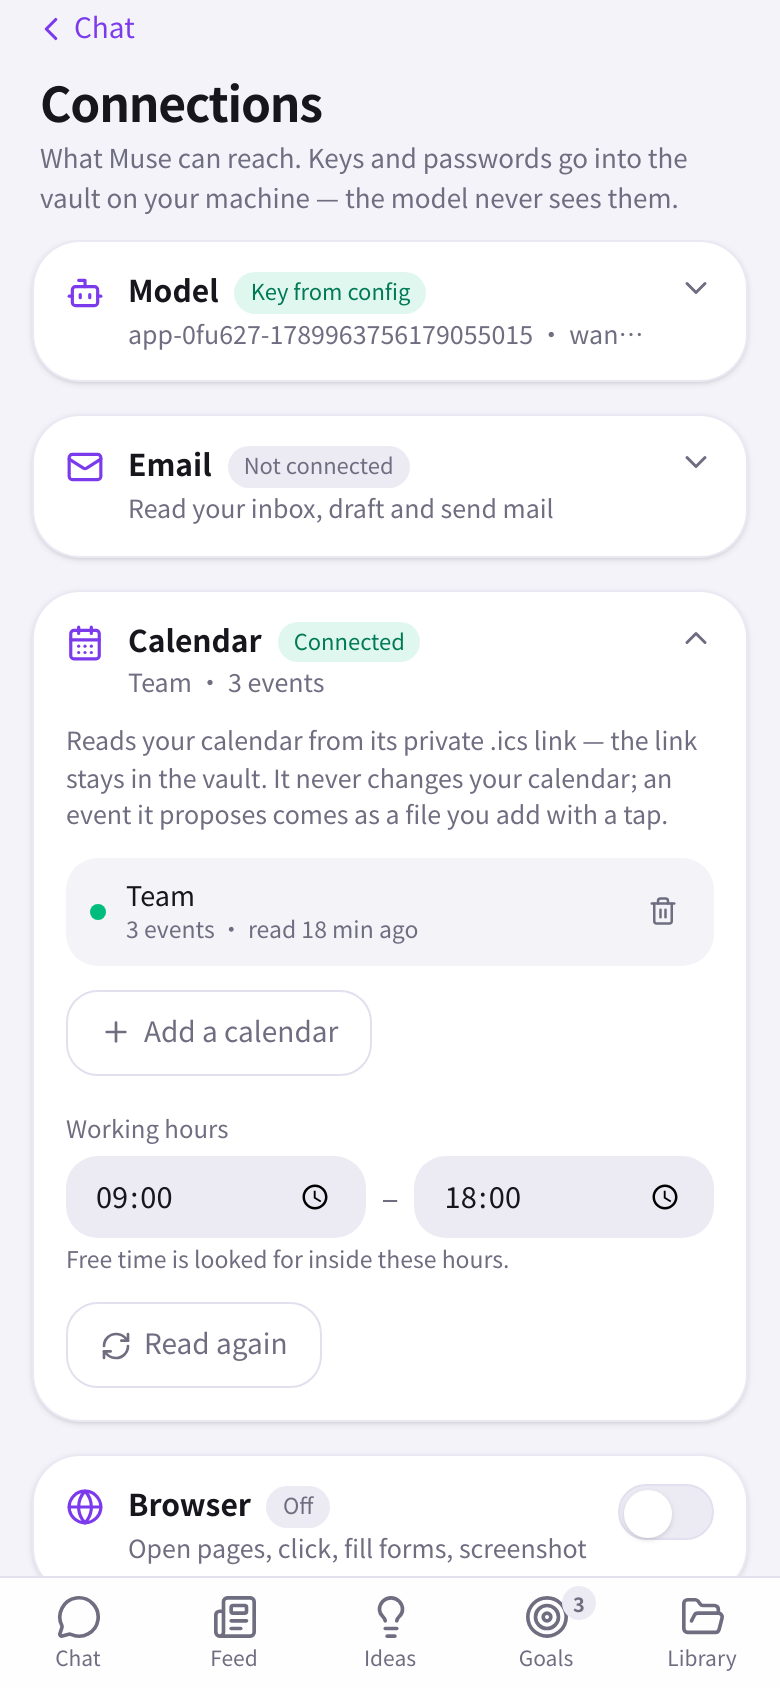
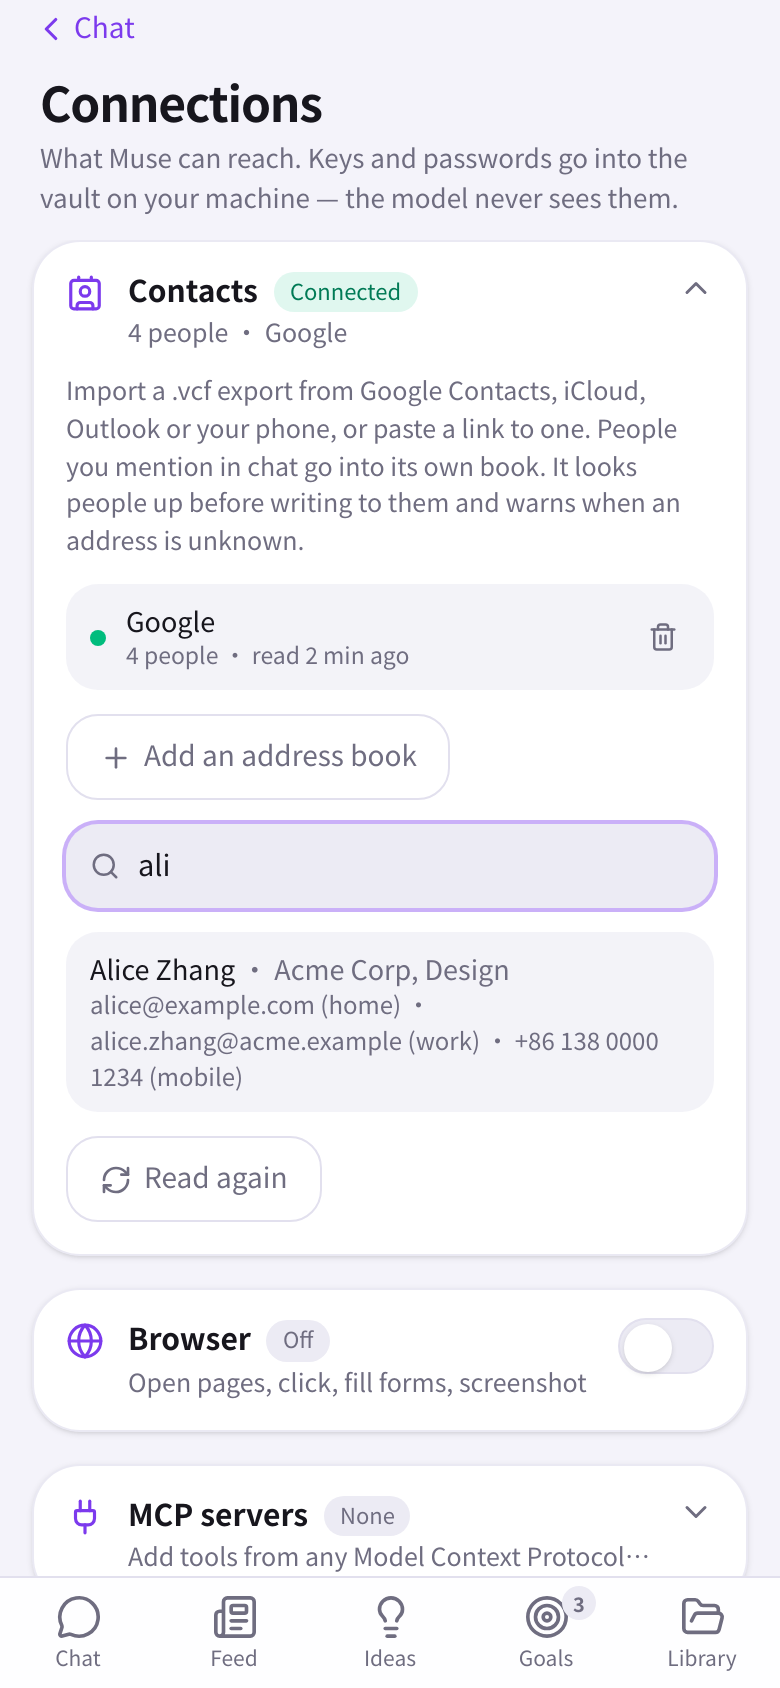
docs(screenshots): retake settings (sandbox line) and connections (the address book)

diff --git a/docs/app.md b/docs/app.md
@@ -17,9 +17,9 @@ openmuse serve --port 9000 --no-qr
 </p>
 <p align="center">
   <img src="screenshots/calendar-event.png" width="19%" alt="A drafted event">
-  <img src="screenshots/connections.png" width="19%" alt="Connections">
+  <img src="screenshots/connections.png" width="19%" alt="Connections: the address book">
   <img src="screenshots/memory.png" width="19%" alt="Memory">
-  <img src="screenshots/settings.png" width="19%" alt="Settings">
+  <img src="screenshots/settings.png" width="19%" alt="Settings: Sentinel and the sandbox">
   <img src="screenshots/upcoming-triggers.png" width="19%" alt="Upcoming: triggers">
 </p>
 

diff --git a/README.md b/README.md
@@ -28,7 +28,7 @@
   <img src="docs/screenshots/chat-approval.png" width="24%" alt="Chat with an approval card">
   <img src="docs/screenshots/goal-detail.png" width="24%" alt="A goal with its plan">
   <img src="docs/screenshots/ideas.png" width="24%" alt="Ideas tab">
-  <img src="docs/screenshots/settings.png" width="24%" alt="Sentinel settings">
+  <img src="docs/screenshots/settings.png" width="24%" alt="Sentinel settings and the sandbox">
 </p>
 
 ## Start here

diff --git a/README_zh.md b/README_zh.md
@@ -28,7 +28,7 @@
   <img src="docs/screenshots/chat-approval.png" width="24%" alt="带审批卡片的聊天">
   <img src="docs/screenshots/goal-detail.png" width="24%" alt="目标与计划">
   <img src="docs/screenshots/ideas.png" width="24%" alt="Ideas 页签">
-  <img src="docs/screenshots/settings.png" width="24%" alt="Sentinel 设置">
+  <img src="docs/screenshots/settings.png" width="24%" alt="Sentinel 设置与沙箱">
 </p>
 
 ## 从这里开始
